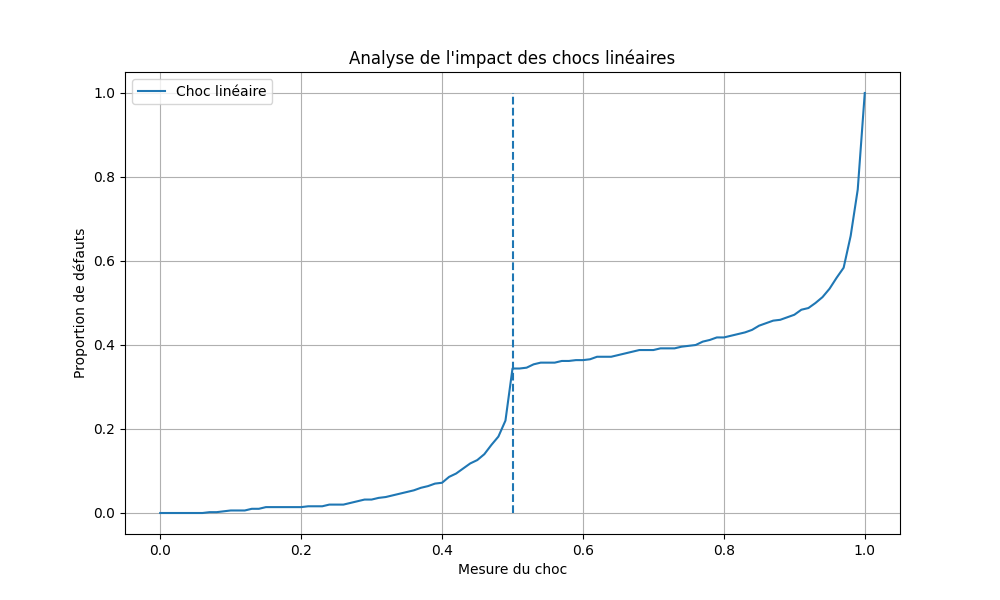
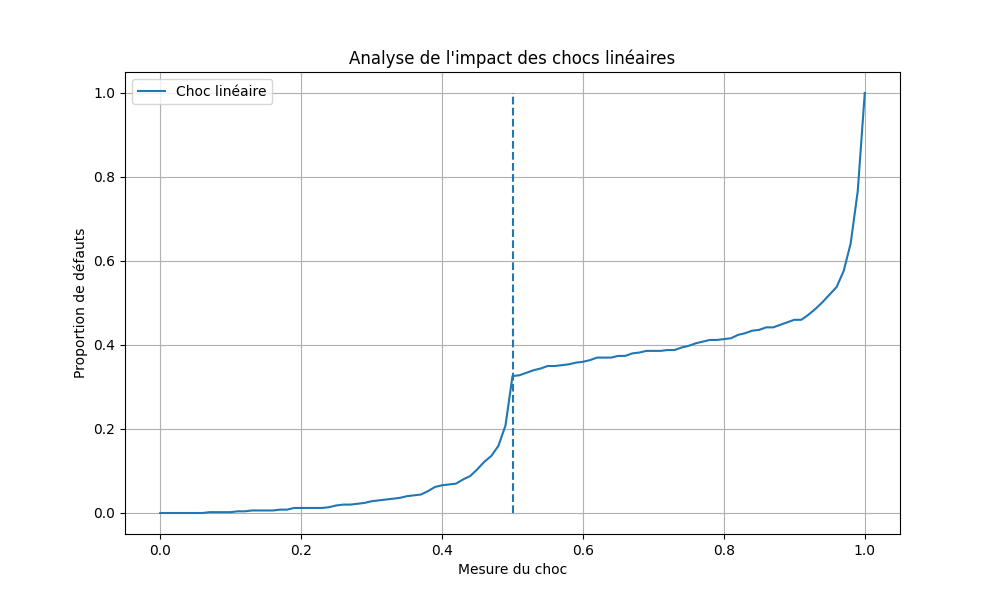
Analyzing

diff --git a/src/main.py b/src/main.py
@@ -73,14 +73,13 @@ plt.grid(True)
 plt.savefig('linear_shock_analysis.png')
 plt.show()
 
-# Démonstration des nouvelles fonctionnalités de distribution de chocs
-print("\n=== Démonstration des nouvelles distributions de chocs ===\n")
+
 
 # 1. Utilisation de la distribution uniforme
 print("1. Distribution de chocs uniforme")
-uniform_dist = UniformShockDistribution(network_random)
-simulation_uniform = Simulation("Eisenberg", network_random, uniform_dist.generate_shock(intensity=0.5))
-results_uniform = simulation_uniform.run_scenarios(uniform_dist, n_scenarios=10)
+uniform_dist = UniformShockDistribution(network_random, intensity=1)
+simulation_uniform = Simulation("Eisenberg", network_random, uniform_dist.generate_shock(intensity=1))
+results_uniform = simulation_uniform.run_scenarios(uniform_dist, n_scenarios=100)
 print(f"Moyenne des défauts: {results_uniform['avg_default_count']:.2f}")
 print(f"Maximum des défauts: {results_uniform['max_default_count']:.2f}")
 print(f"Écart-type des défauts: {results_uniform['std_default_count']:.2f}")
@@ -88,8 +87,8 @@ print(f"Écart-type des défauts: {results_uniform['std_default_count']:.2f}")
 # 2. Utilisation de la distribution Beta
 print("\n2. Distribution de chocs Beta")
 beta_dist = BetaShockDistribution(network_random, alpha=2, beta=5)
-simulation_beta = Simulation("Eisenberg", network_random, beta_dist.generate_shock(intensity=0.5))
-results_beta = simulation_beta.run_scenarios(beta_dist, n_scenarios=10)
+simulation_beta = Simulation("Eisenberg", network_random, beta_dist.generate_shock(intensity=1))
+results_beta = simulation_beta.run_scenarios(beta_dist, n_scenarios=100)
 print(f"Moyenne des défauts: {results_beta['avg_default_count']:.2f}")
 print(f"Maximum des défauts: {results_beta['max_default_count']:.2f}")
 print(f"Écart-type des défauts: {results_beta['std_default_count']:.2f}")
@@ -97,8 +96,8 @@ print(f"Écart-type des défauts: {results_beta['std_default_count']:.2f}")
 # 3. Utilisation de la distribution ciblée
 print("\n3. Distribution de chocs ciblés")
 targeted_dist = TargetedShockDistribution(network_random, targeting_strategy="vulnerability")
-simulation_targeted = Simulation("Eisenberg", network_random, targeted_dist.generate_shock(intensity=0.5))
-results_targeted = simulation_targeted.run_scenarios(targeted_dist, n_scenarios=10)
+simulation_targeted = Simulation("Eisenberg", network_random, targeted_dist.generate_shock(intensity=1))
+results_targeted = simulation_targeted.run_scenarios(targeted_dist, n_scenarios=100)
 print(f"Moyenne des défauts: {results_targeted['avg_default_count']:.2f}")
 print(f"Maximum des défauts: {results_targeted['max_default_count']:.2f}")
 print(f"Écart-type des défauts: {results_targeted['std_default_count']:.2f}")
@@ -108,7 +107,7 @@ print("\n4. Analyse d'intensité avec la distribution ciblée")
 intensity_results = simulation_targeted.run_intensity_analysis(
     TargetedShockDistribution, 
     intensity_range=(0.1, 1.0, 0.1),
-    n_scenarios_per_intensity=5,
+    n_scenarios_per_intensity=50,
     targeting_strategy="vulnerability"
 )
 
@@ -122,4 +121,21 @@ plt.grid(True)
 plt.savefig('targeted_intensity_analysis.png')
 plt.show()
 
-print("\nAnalyse terminée. Les graphiques ont été sauvegardés.")
+
+print("\n4. Analyse d'intensité avec la distribution beta")
+intensity_results_beta = simulation_beta.run_intensity_analysis(
+    BetaShockDistribution,
+    intensity_range=(0.1, 1.0, 0.1),
+    n_scenarios_per_intensity=50,
+)
+
+# Visualisation des résultats de l'analyse d'intensité
+plt.figure(figsize=(12, 10))
+plt.plot(intensity_results_beta['intensities'], intensity_results_beta['avg_default_counts'], marker='o')
+plt.title('Analyse de l\'impact de l\'intensité des chocs beta distribue')
+plt.xlabel('Intensité du choc')
+plt.ylabel('Proportion moyenne de défauts')
+plt.grid(True)
+plt.savefig('beta_intensity_analysis.png')
+plt.show()
+

diff --git a/src/core_periphery.py b/src/core_periphery.py
@@ -10,4 +10,8 @@ def create_core_periphery_network(n_core, n_periphery, p_core=0.7, p_periphery=0
     vector_outside_liabilities = np.array([0]*n)
 
 
+    for k in range(n):
+        for l in range(n):
+            pass
+
 
